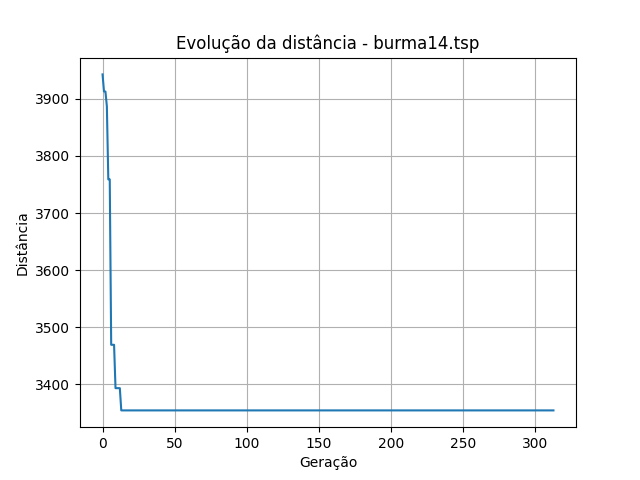
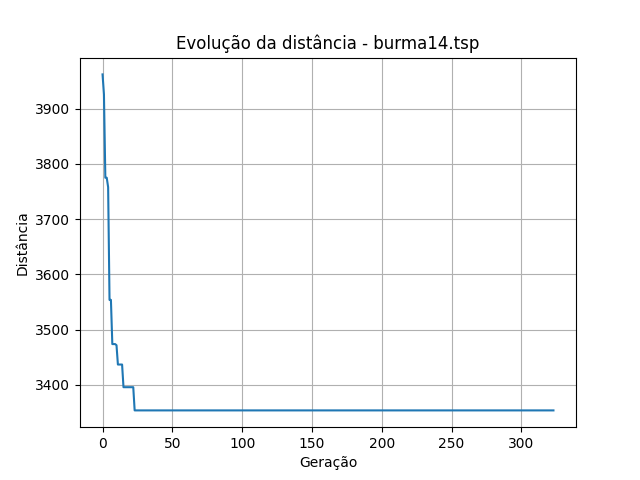
Alterações no código e melhoria de resultados

diff --git a/trabIA.py b/trabIA.py
@@ -156,7 +156,6 @@ def algoritmo_genetico(args):
     matriz, numero_cidades, nome_arquivo = args
     quantidade_de_rotas = max(100, numero_cidades)
     numero_geracoes = max(5000, numero_cidades * 20)
-    probabilidade_crossover = 0.9
     elitismo = 2
     maximo_sem_melhora = max(300, numero_cidades * 2)
     
@@ -182,14 +181,16 @@ def algoritmo_genetico(args):
         while len(nova_populacao) < quantidade_de_rotas:
             pai1 = selecao_torneio(populacao, matriz)
             pai2 = selecao_torneio(populacao, matriz)
-            if rd.random() < probabilidade_crossover:
-                filho1 = crossover_ordenado(pai1.rota, pai2.rota)
-                filho2 = crossover_ordenado(pai2.rota, pai1.rota)
-            else:
-                filho1 = pai1.rota[:]
-                filho2 = pai2.rota[:]
-            filho1 = mutacao(filho1, probabilidade_mutacao)
-            filho2 = mutacao(filho2, probabilidade_mutacao)
+            
+            filho1 = crossover_ordenado(pai1.rota, pai2.rota)
+            filho2 = crossover_ordenado(pai2.rota, pai1.rota)
+            
+            if rd.random() < probabilidade_mutacao:
+                filho1 = mutacao(filho1, probabilidade_mutacao)
+            
+            if rd.random() < probabilidade_mutacao:
+                filho2 = mutacao(filho2, probabilidade_mutacao)
+                
             nova_populacao.append(Rota(filho1, calcula_distancia(filho1, matriz)))
             if len(nova_populacao) < quantidade_de_rotas:
                 nova_populacao.append(Rota(filho2, calcula_distancia(filho2, matriz)))
